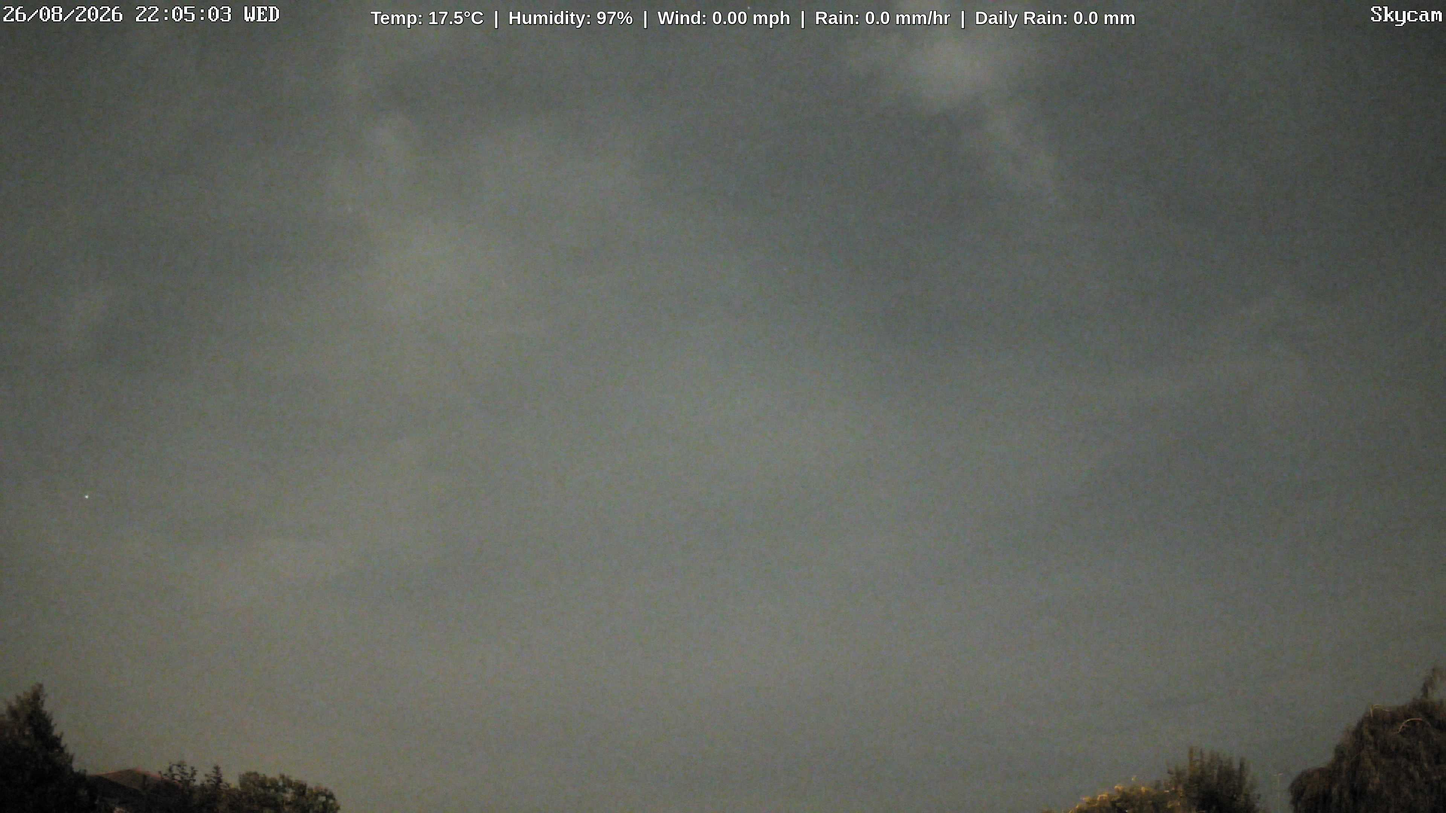
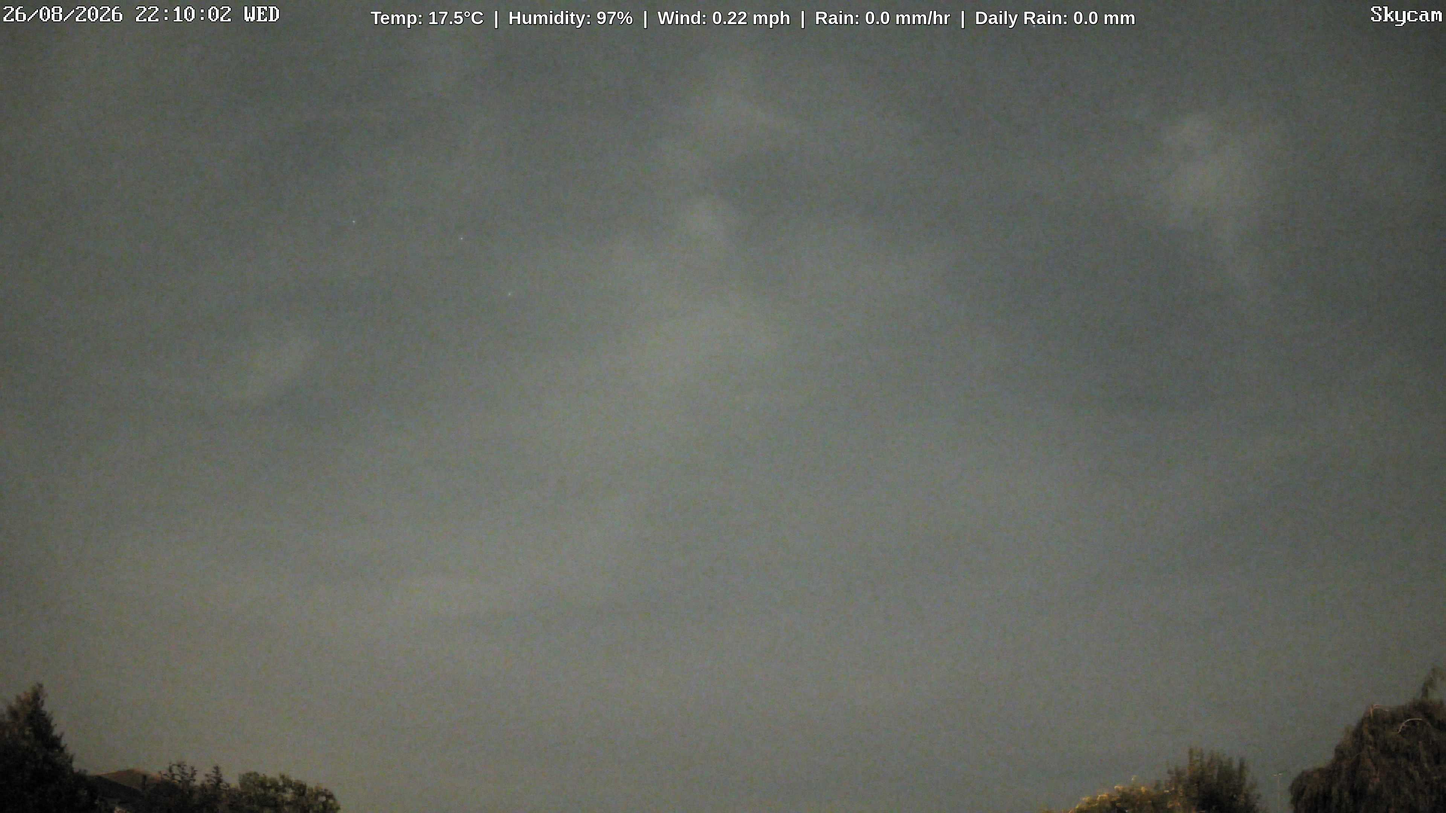
Update weather cam image with synchronized dual-layer weather metrics

diff --git a/index.html b/index.html
@@ -32,7 +32,7 @@
 </head>
 <body>
     <img id="weathercam" alt="Live Weather Snapshot">
-    <div class="banner">Temp: 17.5°C  |  Humidity: 97%  |  Wind: 0.00 mph  |  Rain: 0.0 mm/hr  |  Daily Rain: 0.0 mm</div>
+    <div class="banner">Temp: 17.5°C  |  Humidity: 97%  |  Wind: 0.22 mph  |  Rain: 0.0 mm/hr  |  Daily Rain: 0.0 mm</div>
 
     <script>
         // Shatter mobile cache engines by appending a live unique runtime timestamp 
